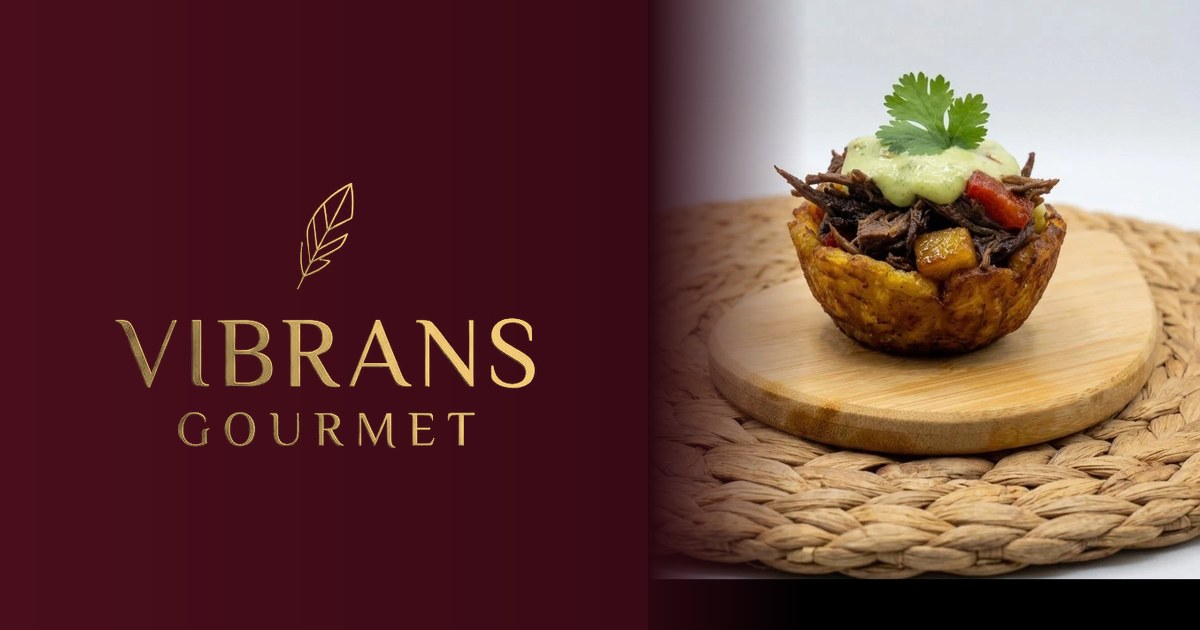
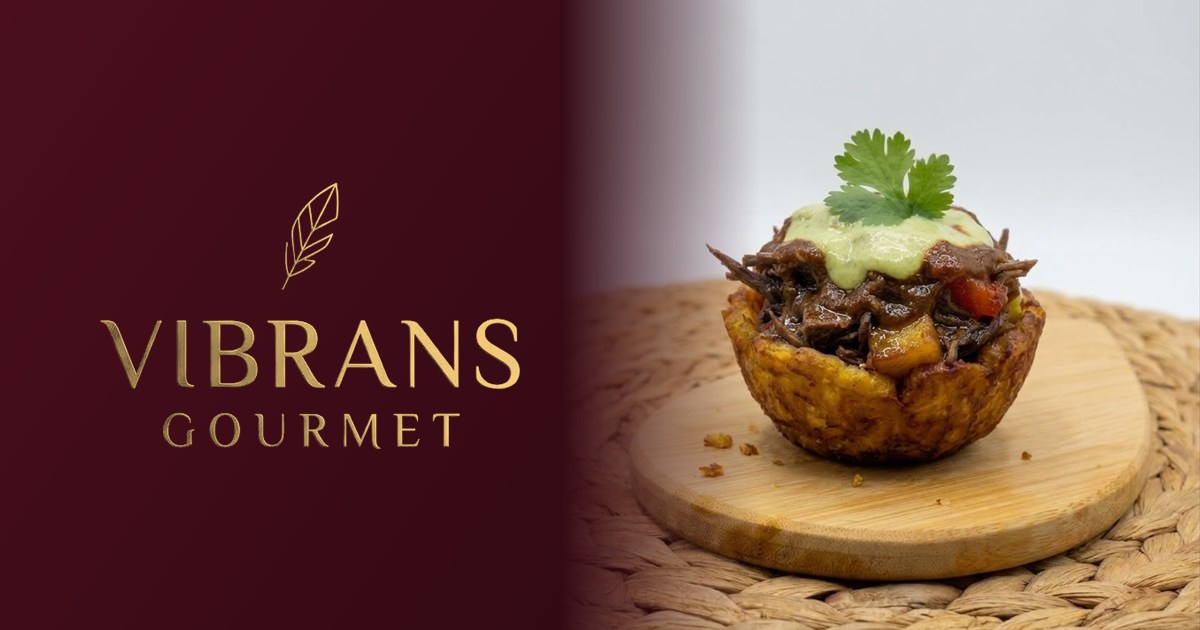
Catálogo real con 8 productos, fotos nuevas y correo de contacto
- Carta con los 8 productos del documento de descripciones, con textos más apetitosos
- Fotos nuevas en hero, servicios, experiencia gourmet, galería y fondo final
- Imagen para compartir el enlace (og-image) rehecha con Tropi canasta
- Correo de contacto: vibransstudio@gmail.com

diff --git a/script.js b/script.js
@@ -21,7 +21,7 @@ const WHATSAPP_DISPLAY  = '+57 305 317 2716';           // cómo se muestra en e
 
 const INSTAGRAM_URL     = 'https://www.instagram.com/vibransgourmet';
 const INSTAGRAM_HANDLE  = '@vibransgourmet';
-const EMAIL             = 'hola@vibransgourmet.com';
+const EMAIL             = 'vibransstudio@gmail.com';
 const CITY              = 'Colombia';
 
 // Enlace de la marca de agua "Diseñado por Sonetix" (pie de página). Si está vacío, se muestra sin enlace.
@@ -39,33 +39,36 @@ const FORM_ENDPOINT     = '';
    --------------------------------------------------------------------- */
 
 const SERVICES = [
-  { title: 'Pasabocas gourmet',   text: 'Bocados de autor, pensados para acompañar la conversación y sorprender al primer gusto.', img: 'assets/patacon.webp', pos: 'center 55%', alt: 'Patacón con carne desmechada y crema de cilantro' },
-  { title: 'Catering para eventos', text: 'Propuestas gastronómicas personalizadas para bodas, eventos corporativos, cumpleaños, celebraciones y otros eventos.', img: 'assets/tostada.webp', pos: 'center 62%', alt: 'Tostada de pan artesanal con jamón serrano y rúcula' },
+  { title: 'Pasabocas gourmet',   text: 'Bocados de autor, pensados para acompañar la conversación y sorprender al primer gusto.', img: 'assets/antojo-de-mi-tierra.jpg', pos: 'center 62%', alt: 'Arepa de queso con guacamole y pancita de cerdo caramelizada' },
+  { title: 'Catering para eventos', text: 'Propuestas gastronómicas personalizadas para bodas, eventos corporativos, cumpleaños, celebraciones y otros eventos.', img: 'assets/italianisimo-tropical.jpg', pos: 'center 58%', alt: 'Mini sándwich de pepperoni y salami en croissant' },
   { title: 'Alquiler de torres y bandejas', text: 'Torres de 2 y 3 pisos y bandejas para exhibir tus pasabocas, en alquiler con un depósito que cubre posibles daños.', icon: 'torre3' },
   { title: 'Eventos corporativos', text: 'Lanzamientos, reuniones y celebraciones de empresa con una presentación impecable.', icon: 'maletin' },
-  { title: 'Celebraciones especiales', text: 'Bodas, cumpleaños y grados con un menú que cuenta tu historia.', img: 'assets/tostada-tomates.webp', pos: 'center', alt: 'Detalle de tomates cherry glaseados sobre una tostada gourmet' },
+  { title: 'Celebraciones especiales', text: 'Bodas, cumpleaños y grados con un menú que cuenta tu historia.', img: 'assets/volcan-exotico.jpg', pos: 'center 52%', alt: 'Buñuelo relleno decorado con flores comestibles' },
   { title: 'Eventos privados', text: 'Encuentros íntimos con atención cercana y una propuesta hecha solo para ti.', icon: 'copa' }
 ];
 
 // Galería "Experiencia gourmet" (7 piezas: las clases t1…t7 definen la composición en style.css)
 const EXPERIENCE = [
-  { name: 'Patacón de carne desmechada', img: 'assets/patacon.webp',          pos: 'center 55%', alt: 'Patacón relleno de carne desmechada con crema de cilantro' },
-  { name: 'Tostada de jamón serrano',    img: 'assets/tostada-tomates.webp',  pos: 'center',     alt: 'Tostada con tomate cherry glaseado y rúcula' },
-  { name: 'Mini postres',                icon: 'postre' },
-  { name: 'Canapés artesanales',         img: 'assets/tostada.webp',          pos: 'center 62%', alt: 'Canapé sobre pan artesanal con jamón serrano' },
-  { name: 'Crema de cilantro',           img: 'assets/patacon-cilantro.webp', pos: 'center',     alt: 'Detalle de la crema de cilantro sobre el patacón' },
-  { name: 'Tablas gourmet',              icon: 'tabla' },
-  { name: 'Pan artesanal',               img: 'assets/tostada-pan.webp',      pos: 'center',     alt: 'Pan artesanal con queso crema y pesto' }
+  { name: 'Tropi canasta',      img: 'assets/tropi-canasta.jpg',     pos: 'center 58%', alt: 'Canasta de plátano rellena de posta cartagenera con salsa de cilantro' },
+  { name: 'Tomatina serrano',   img: 'assets/tomatina-serrano.jpg',  pos: 'center 62%', alt: 'Tostada de masa madre con jamón serrano, tomate cherry y rúcula' },
+  { name: 'Chicken Cone',       img: 'assets/chicken-cone.jpg',      pos: 'center 58%', alt: 'Conos crocantes de maíz rellenos de pollo, crema y maicitos' },
+  { name: 'Volcán exótico',     img: 'assets/volcan-exotico.jpg',    pos: 'center 52%', alt: 'Buñuelo relleno decorado con flores comestibles' },
+  { name: 'Antojo de mi tierra', img: 'assets/antojo-de-mi-tierra.jpg', pos: 'center 62%', alt: 'Arepa de queso con guacamole y pancita de cerdo caramelizada' },
+  { name: 'Vibranburguesa',     img: 'assets/vibranburguesa.jpg',    pos: 'center 62%', alt: 'Mini hamburguesa con queso doble crema' },
+  { name: 'Sinfonía',           img: 'assets/sinfonia.jpg',          pos: 'center 55%', alt: 'Queso de asar a las finas hierbas con uchuva fresca' }
 ];
 
-// Catálogo. Los dos primeros usan fotos reales; el resto son EJEMPLOS para reemplazar por tus productos.
+// Catálogo (carta). Fotos en assets/, nombradas igual que el producto; textos tomados de "Descripcion de Productos.docx".
+// Las categorías (para el filtro) las asignamos nosotros: el documento no las trae.
 const PRODUCTS = [
-  { name: 'Patacón de carne desmechada', category: 'Pasabocas', desc: 'Canasta crujiente de patacón con carne desmechada, toque dulce caramelizado y crema de cilantro.', img: 'assets/patacon.webp', pos: 'center 55%', alt: 'Patacón de carne desmechada' },
-  { name: 'Tostada de jamón serrano',    category: 'Canapés',   desc: 'Pan artesanal con queso crema, pesto, jamón serrano, rúcula y tomate cherry glaseado.', img: 'assets/tostada.webp', pos: 'center 62%', alt: 'Tostada de jamón serrano' },
-  { name: 'Mini cheesecake de frutos rojos', category: 'Mini postres', desc: 'Porción individual cremosa, con base crocante y coulis de frutos rojos.', icon: 'postre' },
-  { name: 'Tabla de quesos y charcutería', category: 'Tablas', desc: 'Selección de quesos, embutidos, frutos secos y frutas, montada para compartir.', icon: 'tabla' },
-  { name: 'Brocheta caprese', category: 'Pasabocas', desc: 'Tomate cherry, mozzarella fresca y albahaca con reducción de balsámico.', icon: 'canape' },
-  { name: 'Tartaleta de chocolate', category: 'Mini postres', desc: 'Masa mantecosa rellena de ganache de chocolate oscuro y sal en escamas.', icon: 'postre' }
+  { name: 'Antojo de mi tierra',   category: 'Pasabocas',       desc: 'Arepa de queso dorada, coronada con nuestro guacamole de la casa y pancita de cerdo caramelizada. El sabor de casa, en un solo bocado.', img: 'assets/antojo-de-mi-tierra.jpg', pos: 'center 62%', alt: 'Antojo de mi tierra: arepa de queso con guacamole y pancita de cerdo caramelizada' },
+  { name: 'Chicken Cone',          category: 'Pasabocas',       desc: 'Un cono de maíz crocante que guarda un cremoso dip de pollo a las finas hierbas, con maicitos dulces y un toque fresco de cilantro.', img: 'assets/chicken-cone.jpg', pos: 'center 58%', alt: 'Chicken Cone: conos crocantes de maíz rellenos de pollo, crema y maicitos' },
+  { name: 'Tropi canasta',         category: 'Pasabocas',       desc: 'Canasta de plátano dorada y crujiente, rellena de posta cartagenera y piña calada, con una suave salsa de cilantro que lo une todo.', img: 'assets/tropi-canasta.jpg', pos: 'center 60%', alt: 'Tropi canasta: canasta de plátano con posta cartagenera, piña y salsa de cilantro' },
+  { name: 'Volcán exótico',        category: 'Pasabocas',       desc: 'Un buñuelo dorado que esconde un dip sedoso de sour cream, pimentones caramelizados y tocino ahumado. Sorprende desde el primer bocado.', img: 'assets/volcan-exotico.jpg', pos: 'center 52%', alt: 'Volcán exótico: buñuelo relleno con sour cream, pimentones y tocino, decorado con flores comestibles' },
+  { name: 'Sinfonía',              category: 'Canapés',         desc: 'Queso de asar a las finas hierbas, dorado en su punto, con mermelada de uchuva y una uchuva fresca. Dulce, salado y delicadamente ácido.', img: 'assets/sinfonia.jpg', pos: 'center 55%', alt: 'Sinfonía: queso de asar a las finas hierbas con uchuva fresca' },
+  { name: 'Tomatina serrano',      category: 'Canapés',         desc: 'Pan de masa madre con pesto y queso crema, vestido con jamón serrano, tomates cherry y rúcula fresca, y un glaseado de reducción de vino tinto.', img: 'assets/tomatina-serrano.jpg', pos: 'center 62%', alt: 'Tomatina serrano: tostada de masa madre con pesto, jamón serrano, tomate cherry y rúcula' },
+  { name: 'Vibranburguesa',        category: 'Mini sándwiches', desc: 'Mini hamburguesa de 50 g, jugosa, con tocino caramelizado, queso doble crema derretido, vegetales frescos al gusto y nuestras salsas especiales de la casa.', img: 'assets/vibranburguesa.jpg', pos: 'center 62%', alt: 'Vibranburguesa: mini hamburguesa con queso doble crema y lechuga' },
+  { name: 'Italianísimo tropical', category: 'Mini sándwiches', desc: 'Mini sándwich de pepperoni y salami con queso crema trufado y un toque de mermelada de piña que lo hace inolvidable. Vegetales frescos al gusto.', img: 'assets/italianisimo-tropical.jpg', pos: 'center 58%', alt: 'Italianísimo tropical: mini sándwich de pepperoni y salami en croissant' }
 ];
 
 // Tipos de evento. `single` es el texto que se usa en el mensaje de WhatsApp ("será una boda…").
@@ -84,10 +87,10 @@ const SERVICE_TYPES = ['Pasabocas gourmet', 'Catering para eventos', 'Alquiler d
 // Galería / Instagram (reemplaza por tus fotos o conecta un feed más adelante)
 const GALLERY = [
   { img: 'assets/patacon-cilantro.webp', pos: 'center',     alt: 'Detalle de patacón con carne desmechada' },
-  { icon: 'hoja' },
+  { img: 'assets/italianisimo-tropical.jpg', pos: 'center 58%', alt: 'Mini sándwich de pepperoni y salami en croissant' },
   { img: 'assets/tostada-jamon.webp',    pos: 'center',     alt: 'Detalle de tostada con jamón serrano' },
   { img: 'assets/tostada-pan.webp',      pos: 'center',     alt: 'Pan artesanal de la tostada gourmet' },
-  { icon: 'copa' },
+  { img: 'assets/volcan-exotico.jpg',    pos: 'center 52%', alt: 'Buñuelo con flores comestibles' },
   { img: 'assets/patacon-base.webp',     pos: 'center 40%', alt: 'Canasta de patacón sobre tabla de bambú' }
 ];
 
@@ -722,7 +725,7 @@ const TABLE_PRESETS = [
   { label: 'Redonda Ø 90',         shape: 'round', w: 90,  d: 90 }
 ];
 
-const SIM_COLORS = ['#C6A15B', '#B5656F', '#8A8F5B', '#B8734A', '#6E3A5A', '#9A8C78'];
+const SIM_COLORS = ['#C6A15B', '#B5656F', '#8A8F5B', '#B8734A', '#6E3A5A', '#9A8C78', '#5F7A6B', '#A8553A'];
 const PIECE_STEP = 6;                       // los pasabocas suben/bajan de media docena en media docena
 
 const standDims = (s) => s.shape === 'round' ? `Ø ${s.diameter} cm` : `${s.w} × ${s.d} cm`;

diff --git a/index.html b/index.html
@@ -88,7 +88,7 @@
     <!-- ========== 1. HERO ========== -->
     <section class="hero" id="inicio" aria-labelledby="heroTitle">
       <div class="hero-bg" aria-hidden="true">
-        <img src="assets/patacon.webp" alt="" width="896" height="1171" fetchpriority="high">
+        <img src="assets/tropi-canasta.jpg" alt="" width="896" height="1195" fetchpriority="high">
       </div>
       <div class="hero-overlay" aria-hidden="true"></div>
       <div class="gold-lines" aria-hidden="true"><i></i><i></i><i></i><i></i></div>
@@ -117,10 +117,10 @@
             <path class="run" pathLength="1" d="M1 549V220A219 219 0 0 1 439 220V549Z"/>
           </svg>
           <div class="arch">
-            <img data-parallax="0.06" src="assets/patacon.webp" alt="Patacón relleno de carne desmechada con crema de cilantro, servido sobre tabla de bambú" width="896" height="1171" fetchpriority="high">
+            <img data-parallax="0.06" src="assets/tropi-canasta.jpg" alt="Tropi canasta: canasta de plátano dorada con posta cartagenera, piña y salsa de cilantro" width="896" height="1195" fetchpriority="high">
           </div>
           <div class="orb">
-            <img src="assets/tostada.webp" alt="Tostada de pan artesanal con jamón serrano, rúcula y tomates cherry glaseados" width="896" height="1150">
+            <img src="assets/tomatina-serrano.jpg" alt="Tomatina serrano: tostada de masa madre con jamón serrano, tomate cherry y rúcula" width="896" height="1195">
           </div>
           <span class="hero-tag">Hecho a mano, para tu evento</span>
         </div>
@@ -527,7 +527,7 @@
 
     <!-- ========== 11. CTA FINAL ========== -->
     <section class="cta-final" aria-labelledby="ctaTitle">
-      <div class="cta-bg" aria-hidden="true"><img src="assets/tostada.webp" alt="" width="896" height="1150" loading="lazy"></div>
+      <div class="cta-bg" aria-hidden="true"><img src="assets/chicken-cone.jpg" alt="" width="896" height="1195" loading="lazy"></div>
       <div class="cta-overlay" aria-hidden="true"></div>
       <div class="container cta-inner">
         <div class="logo-stage cta-logo">
